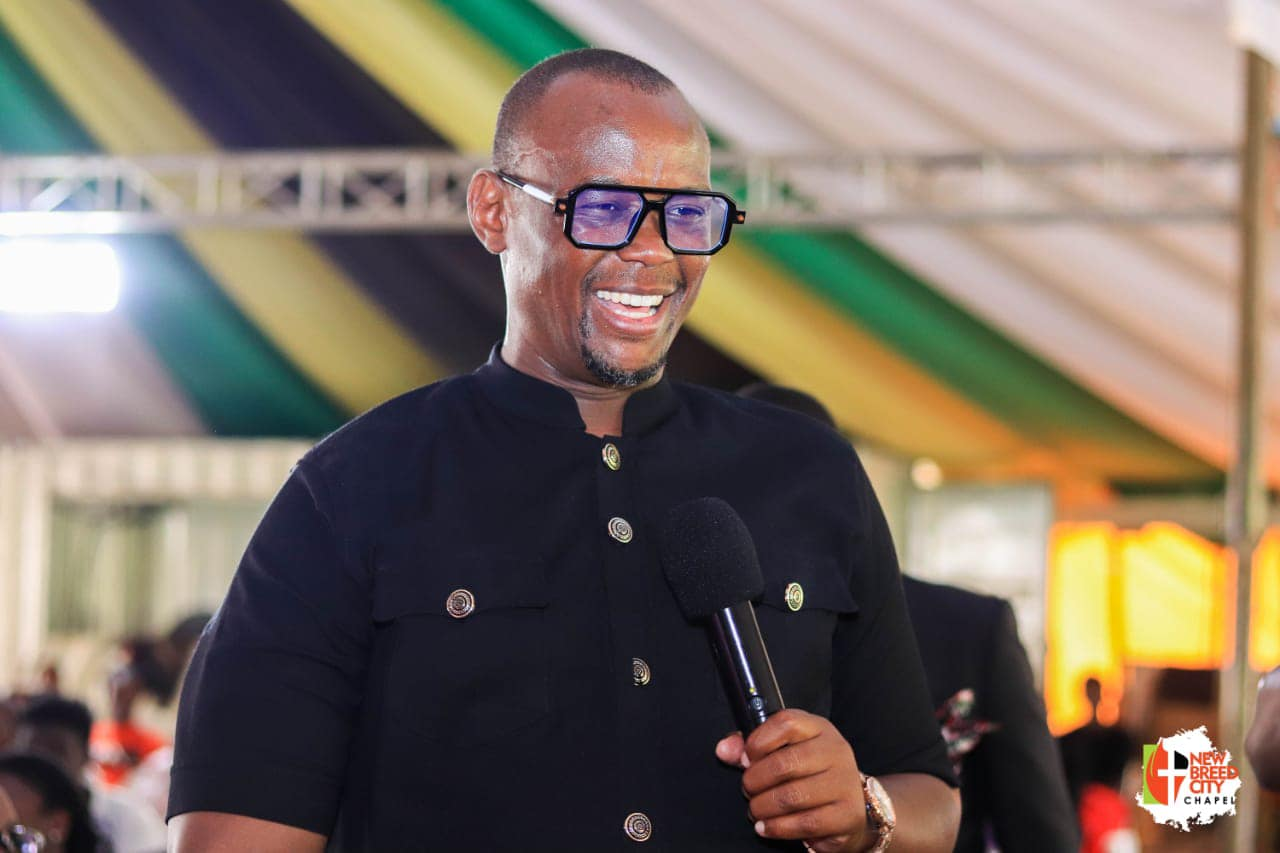
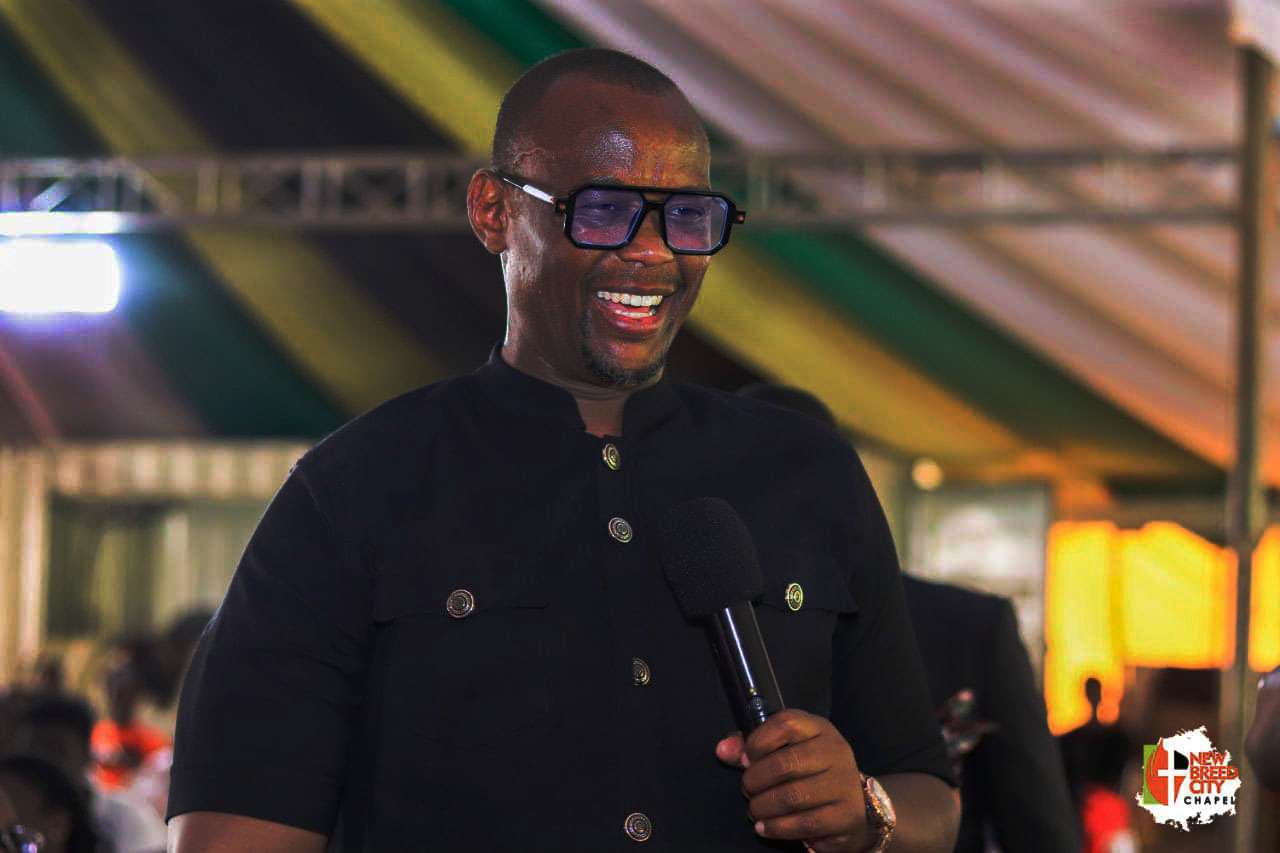
carousel updates

diff --git a/resources/views/landing.blade.php b/resources/views/landing.blade.php
@@ -1,11 +1,11 @@
 
 @extends('layouts.main')
 @section('content')
-<p class="rs-p-wp-fix"></p>
+<p class="rs-p-wp-fix"> </p>
             <rs-module-wrap id="rev_slider_1_1_wrapper" data-alias="zegen-home-1" data-source="gallery"
                 style="visibility:hidden;background:#000000;padding:0;margin:0px auto;margin-top:0;margin-bottom:0;">
                 <rs-module id="rev_slider_1_1"  data-version="6.5.31">
-                    <rs-slides style="filter: brightness(0.5);">
+                    <rs-slides>
                         <rs-slide style="position: absolute;  " data-key="rs-1" data-title="Web Show"
                             data-thumb="web/rs-plugin/assets/bishop.jpg"
                             data-anim="adpr:false;e:slidingoverlay;ms:2000;" data-in="o:1;x:(100%);"
